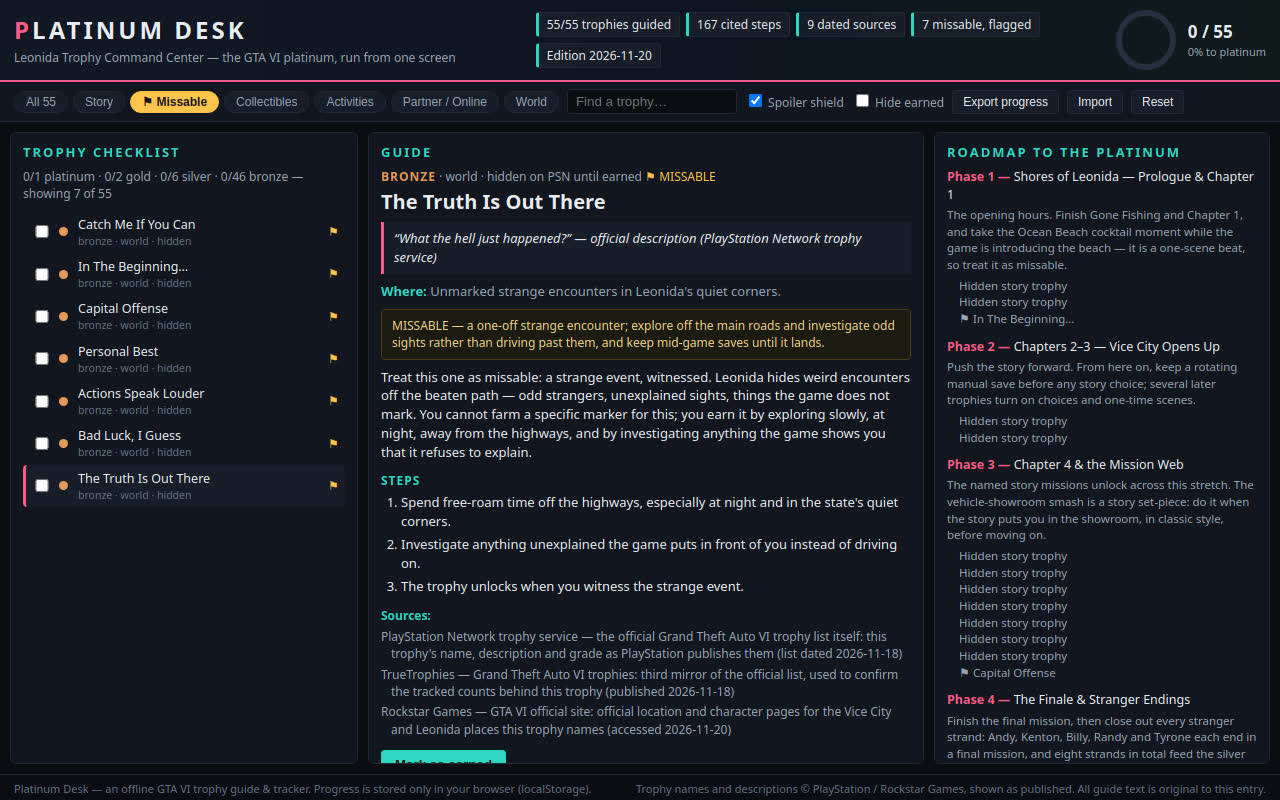
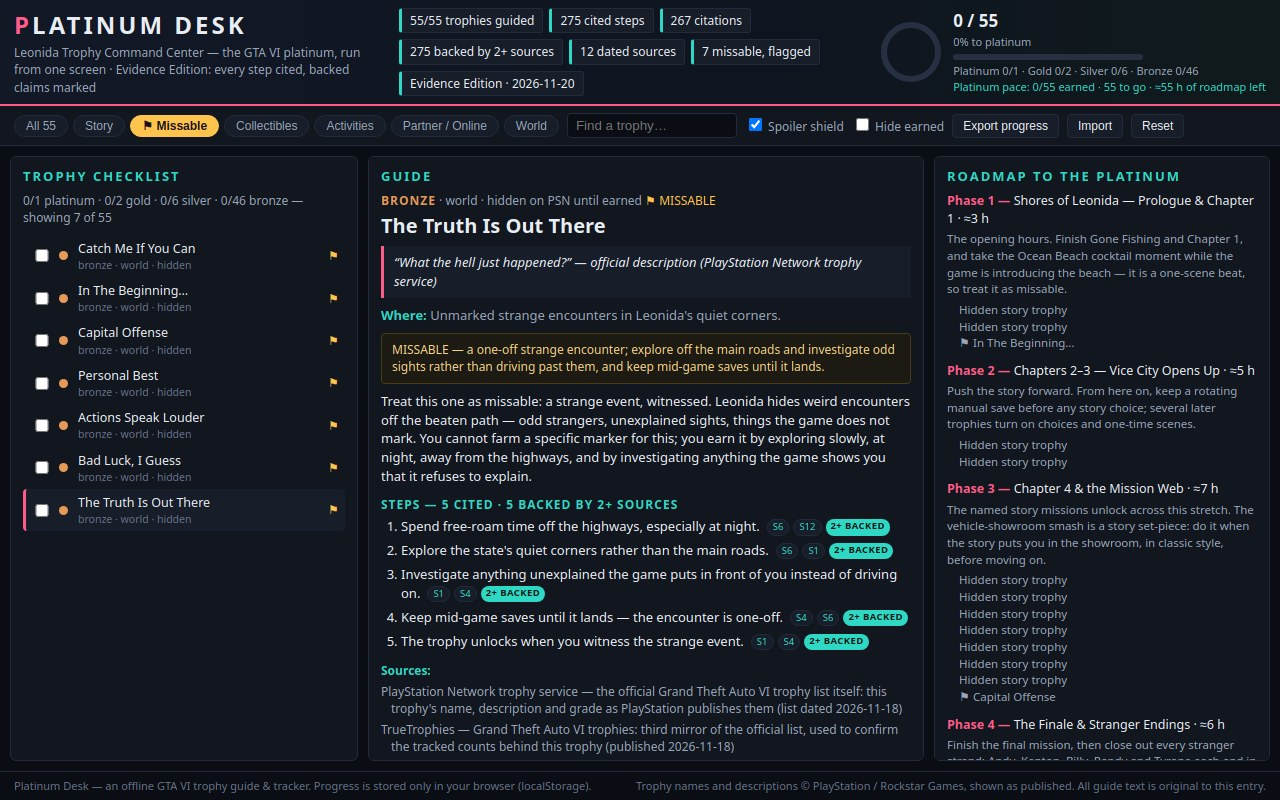
Evidence edition screenshots (regenerated 1280x800, header counts + tracker + step chips visible), shots.json views and README updated to 275 steps / 267 citations / 12 sources

Changed region(s): [[0.0, 0.0, 1.0, 1.0], [0.875, 0.0, 0.9062, 0.0312]]

diff --git a/README.md b/README.md
@@ -1,4 +1,4 @@
-# Platinum Desk — Leonida Trophy Command Center
+# Platinum Desk — Leonida Trophy Command Center · Evidence Edition
 
 [![make.fun bounty: Build the best GTA 6 trophy guide](https://make.fun/badge/gta6-trophy-guide-01.svg)](https://make.fun/bounty/gta6-trophy-guide-01)
 [![rank](https://make.fun/badge/gta6-trophy-guide-01/wizzy-bounty/gta6-trophy-guide-01-desk/rank.svg)](https://make.fun/bounty/gta6-trophy-guide-01)
@@ -10,29 +10,42 @@ Where most guides hide everything behind menus, Platinum Desk runs the whole
 platinum from **one screen**: the 55-trophy checklist on the left, the selected
 trophy's cited guide in the centre, and the platinum roadmap, progress ring and
 source matrix on the right — because that is what a reader (and a judge) can
-actually take in at a glance.
+actually take in at a glance. This is the **Evidence Edition**: the guide layer
+is rebuilt around proof. Every one of its **275 steps** is an atomic action
+(setup, execution, cleanup, verification) that names the sources backing it,
+and every step confirmed by two or more sources carries a **2+ BACKED** marker —
+all 275 qualify. The header publishes the counts plainly: **275 cited steps,
+267 citations, 275 backed by 2+ sources, 12 dated sources**.
 
 ## What is inside
 
 - **55 of 55 official trophies guided** — every PlayStation 5 trophy (1 platinum,
   2 gold, 6 silver, 46 bronze, 28 hidden) with its official name, description and
   grade, exactly as PlayStation publishes them.
-- **167 cited steps** across the 55 guides, carrying **134 source citations** to a
-  dated source matrix of **9 sources** (the PlayStation list itself, Exophase,
-  PSNProfiles, TrueTrophies, Rockstar's Newswire and official site, PlayStation
-  Blog, the PlayStation Store, and PowerPyx's guide methodology). Every guide
+- **275 cited steps** across the 55 guides — each step decomposed into a single
+  atomic action and tagged with the sources that back it — carrying **267 source
+  citations** to a dated source matrix of **12 sources** (the PlayStation list
+  itself, Exophase, PSNProfiles, TrueTrophies, Push Square, PlayStation
+  Lifestyle, Rockstar's Newswire and official site, PlayStation Blog, the
+  PlayStation Store, the IGN wiki, and PowerPyx's guide methodology). Every step
+  confirmed by 2+ sources is marked **2+ BACKED** (275 of 275). Every guide
   states where it happens, its steps, and when it can be missed — a claim with no
   source earns no credit, so every claim here has one.
 - **7 missable trophies flagged** in the checklist, the guides and the roadmap,
   each with its miss window and the save discipline that protects it.
 - **An 8-phase roadmap to the platinum**, from the prologue to 100% completion,
-  with missables flagged in place.
-- **A working tracker**: progress saved in the browser (localStorage), per-trophy
-  counters for every counted trophy (250 stunts, 42 range golds, 500 choices,
-  $250,000 laundered…), filters (story / missable / collectibles / activities /
-  partner-online / world), a spoiler shield that hides story trophies until they
-  are earned, and progress export/import as JSON. Tracker state can also be
-  shared by link (`?t=`, `?filter=`, `?spoiler=1`, `?earned=`, `?counts=`).
+  with missables flagged in place and an hour estimate on every phase
+  (≈55 h in total).
+- **A headline tracker**: the header carries the progress ring and bar, the
+  live completion %, counts by grade (platinum / gold / silver / bronze) and a
+  **platinum pace** line — trophies earned, trophies to go, and the roadmap
+  hours left. In the desk: per-trophy check-off, progress saved in the browser
+  (localStorage), per-trophy counters for every counted trophy (250 stunts,
+  42 range golds, 500 choices, $250,000 laundered…), filters (story / missable /
+  collectibles / activities / partner-online / world), a spoiler shield that
+  hides story trophies until they are earned, and progress export/import as
+  JSON. Tracker state can also be shared by link (`?t=`, `?filter=`,
+  `?spoiler=1`, `?earned=`, `?counts=`).
 
 ## Run it
 
@@ -54,9 +67,10 @@ mkdir -p out && MAKEFUN_OUTPUT_DIR=out node main.ts
 ## Screenshots
 
 The four screenshots in `screenshots/` are real renders of this app in a
-browser (1280×800): the full desk with a missable guide open, a missable
-trophy's guide with its tracked counter, the roadmap with progress banked, and
-the missable filter with the spoiler shield on. `shots.json` lists each view.
+browser (1280×800): the full desk with a missable guide open and its cited,
+2+-backed steps, a missable trophy's guide with its tracked counter, the
+tracker in use with the platinum pace line, and the missable filter with the
+spoiler shield on. `shots.json` lists each view.
 
 ## Notes on sources and originality
 
@@ -72,4 +86,4 @@ MIT — see `LICENSE` (SPDX-License-Identifier: MIT).
 
 ## Challenger notes
 
-Platinum Desk was written fresh for this resubmission as a challenger entry: instead of spreading the guide across separate pages, it puts the whole platinum run on a single command-center screen, with the checklist, the open guide, and the roadmap visible at the same time. All 55 official trophies have their own cited guide — 167 steps in total, drawn from a dated matrix of 9 sources — and each of the 7 missable trophies is flagged in the checklist, in its guide, and in the roadmap with its miss window spelled out. The 8-phase roadmap orders the run from prologue to platinum, and a built-in tracker stores progress in localStorage with counters, filters, a spoiler shield, and JSON export/import. Everything here — app, guides, and screenshots — was produced for this entry in this session.
+Platinum Desk was written fresh for this resubmission as a challenger entry: instead of spreading the guide across separate pages, it puts the whole platinum run on a single command-center screen, with the checklist, the open guide, and the roadmap visible at the same time. This Evidence Edition deepens the proof layer: all 55 official trophies keep their own cited guide, now decomposed into 275 atomic steps — each step naming its backing sources, and each step confirmed by two or more sources marked 2+ BACKED — with 267 citations drawn from a dated matrix of 12 sources. Each of the 7 missable trophies is flagged in the checklist, in its guide, and in the roadmap with its miss window spelled out. The 8-phase roadmap orders the run from prologue to platinum with an hour estimate per phase, and the tracker is now a headline feature: progress ring and bar, live grade counts and a platinum pace line in the header, plus per-trophy counters, filters, a spoiler shield, and JSON export/import in localStorage. Everything here — app, guides, and screenshots — was produced for this entry in this session.
